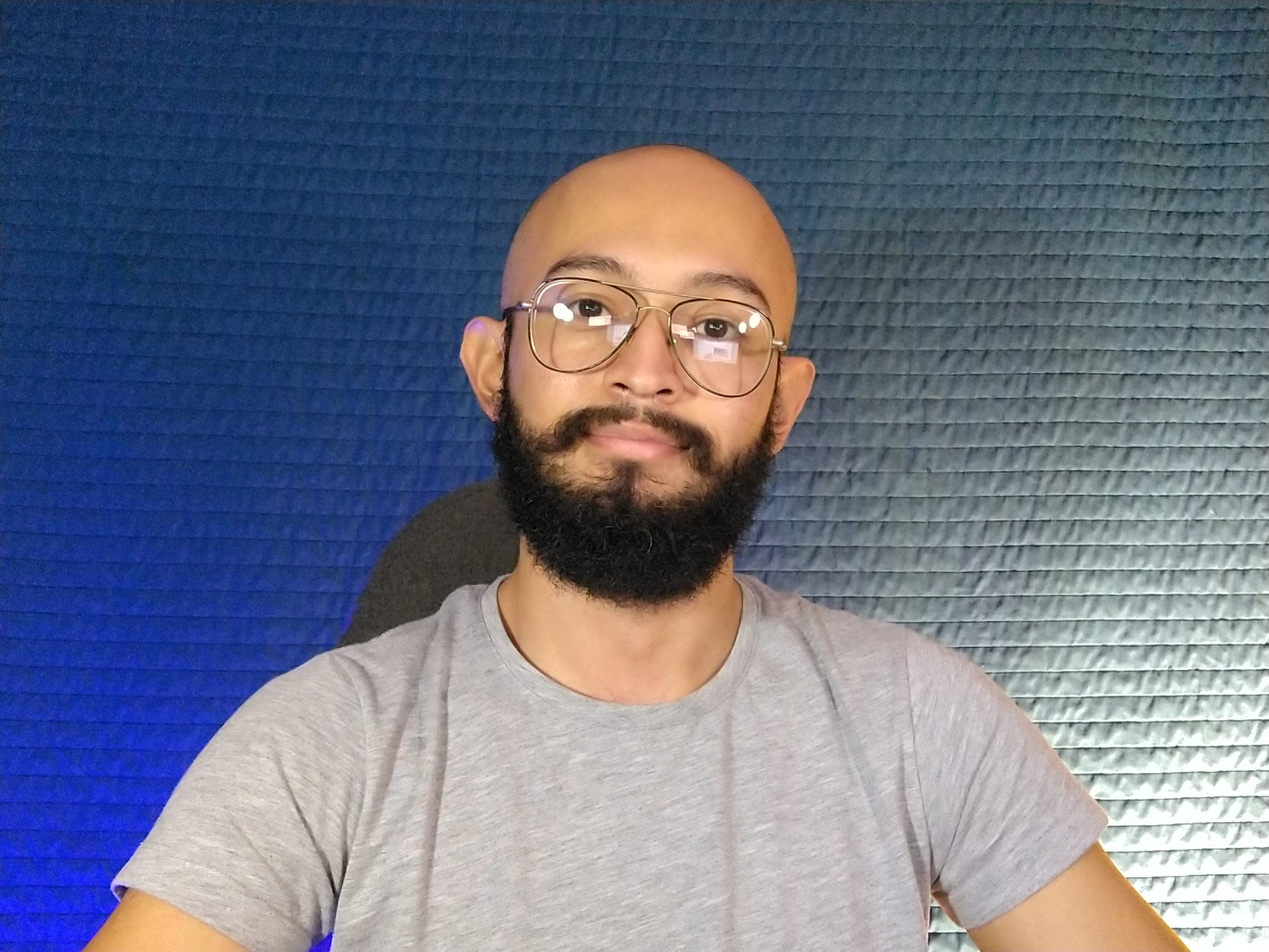
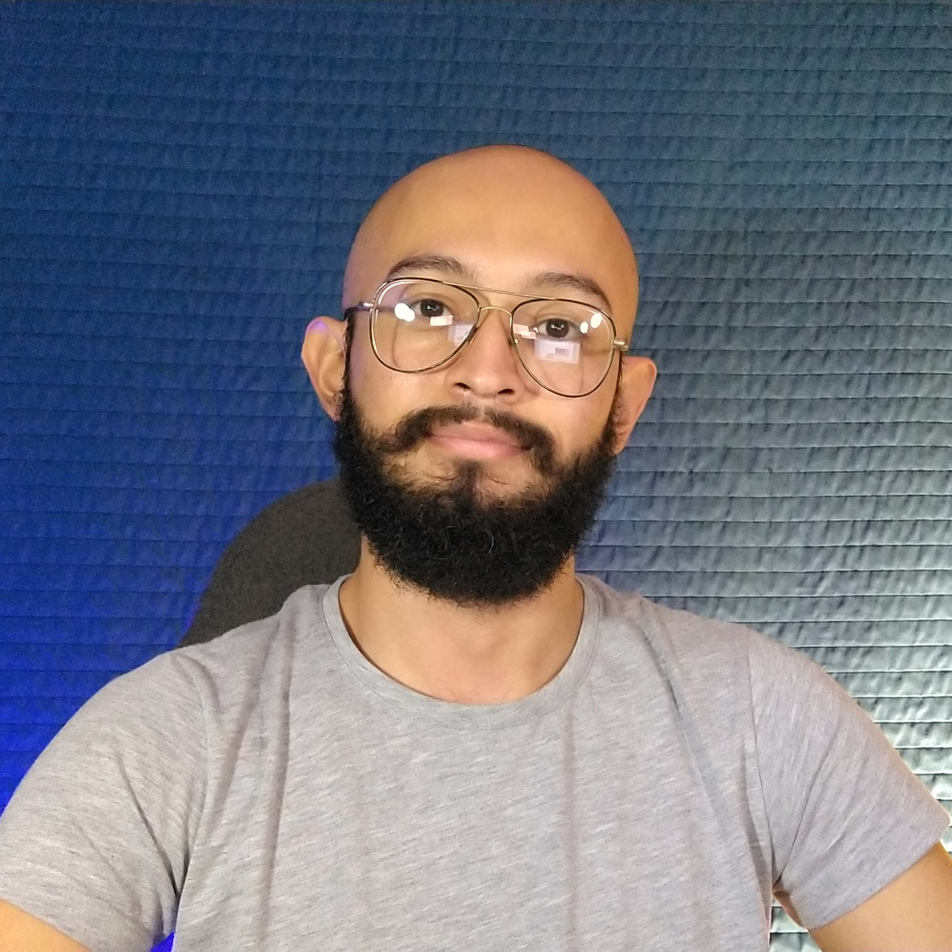
agrego contacto y links de contacto

diff --git a/views/contenido/contacto.html b/views/contenido/contacto.html
@@ -1,0 +1,19 @@
+
+<img src="./img/contact/creator.jpg" class="creator">
+<h1 style="align-items: center; margin:15px; text-align: center;">Fernando Briceño</h1>
+<div style="align-items: center; margin:15px; text-align: center;">
+    <p style="width: 80%; text-align: center;margin:auto;">Estudiante de Física de La Universidad Industrial de Santander, Colombia.</p>
+    <br>
+    <div class="contact-links">
+        <a href="#"><i class='bx bxl-facebook-square'></i></a>
+        <a href="#"><i class='bx bxl-instagram'></i></a>
+        <a href="#"><i class='bx bxl-github'></i></a>
+        <a href="#"><i class='bx bxl-twitter'></i></a>
+        <a href="#"><i class='bx bxl-youtube'></i></a>
+        <a href="#"><i class='bx bxl-whatsapp'></i></a>
+        <a href="#"><i class='bx bxl-linkedin'></i></a>
+        <a href="#"><i class='bx bxl-telegram'></i></a>
+        <a href="#"><i class='bx bx-mail-send'></i></a>
+    </div>
+
+</div>

diff --git a/css/estilo.css b/css/estilo.css
@@ -21,8 +21,8 @@ body{
     justify-content: center;
 
     margin: auto;
-    margin-left: 93px;
-    margin-right: 15px;
+    margin-left: 108px;
+    margin-right: 30px;
     /*margin-top: 40px;*/
   }
   
@@ -46,4 +46,27 @@ body{
 
 .listOfLinks {
     margin: 10px 10px 10px 100px;
+}
+
+.creator {
+    width: 20%;
+    margin:35px;
+    border-radius:50%;
+}
+
+.contact-links a i{
+    height: 50px;
+    min-width: 30px;
+    text-align: center;
+    line-height: 50px;
+    color: rgb(0, 0, 0);
+    font-size: 20px;
+    cursor: pointer;
+    transition: all 0.3s ease;
+  }
+.contact-links{
+    width: 30%;
+    align-items: center;
+    text-align: center;
+    margin: auto;
 }

diff --git a/views/menu.html b/views/menu.html
@@ -110,7 +110,7 @@
 
       <li>
         <a href="./content.html?/contacto">
-            <i class='bx bxs-contact'></i>
+            <i class='bx bxs-contact'></i> <!--<i class='bx bx-user-voice'></i> <i class='bx bxs-user-voice' ></i> <i class='bx bxs-face'></i> <i class='bx bxs-user-circle' ></i>-->
           <span class="link_name">Contacto</span>
         </a>
         <ul class="sub-menu blank">
